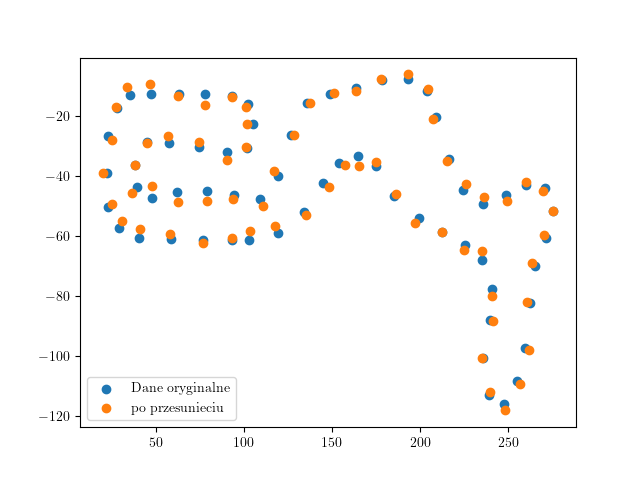
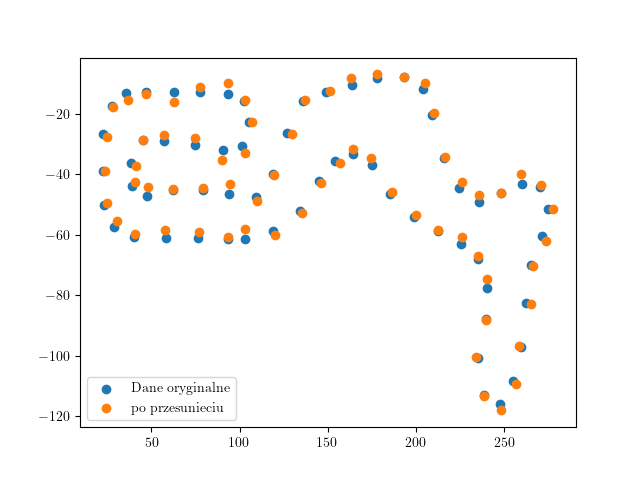
made some customization, debugging, edited readme

diff --git a/src/trajectory.py b/src/trajectory.py
@@ -15,6 +15,7 @@ from matplotlib import pyplot as plt
 
 from sklearn.gaussian_process import GaussianProcessRegressor
 from sklearn.gaussian_process.kernels import Matern
+from sklearn.preprocessing import StandardScaler
 
 from track import Track
 from vehicle import Vehicle
@@ -62,7 +63,6 @@ class Trajectory:
         """Calculate lap time from the velocity profile."""
         # print(self.s)
         time_sum = np.sum(np.diff(self.s) / self.velocity.v)
-        print(time_sum)
         return time_sum
     
     ##################################################
@@ -70,7 +70,6 @@ class Trajectory:
     def updateBayesian(self, waypoints):
         """Update control points and the resulting path."""
         
-        print(f"update Bayesian: ")
         self.path = Path(waypoints, self.track.closed)
         # Sample every metre
         self.s = np.linspace(0, self.path.length, self.ns)
@@ -86,14 +85,12 @@ class Trajectory:
         """Minimum time to traverse on a fixed trajectory for Bayesian optimisation."""
         # Method for Bayesian optimization
         
-        print("calcMinTime")
-        
         # Fit cubic splines on the waypoints
         # waypoints are values in between the cones
-        tck, u = splprep([waypoints[0], waypoints[1]], s = 3)
+        tck, u = splprep([waypoints[0], waypoints[1]], s = 1)
         
         # Re-sample waypoints with finer discretization
-        u_fine = np.linspace(0, 1, num=2*len(waypoints[0])) # in documentation, they starts with 21 (they advise <30) waypoints and do finer discretization with 100 waypoints
+        u_fine = np.linspace(0, 1, 120)#num=2*len(waypoints[0])) # in documentation, they starts with 21 (they advise <30) waypoints and do finer discretization with 100 waypoints
         x_fine, y_fine = splev(u_fine, tck)
         
         # for debugging
@@ -123,13 +120,16 @@ class Trajectory:
         
         # 2. Calculate the normal to the spline at this point
         dx, dy = splev(t_closest, spline, der=1)
-        normal = np.array([-dy, dx])
-        normal /= np.linalg.norm(normal)
-        
+        tangent = np.array([dx, dy])
+        tangent /= np.linalg.norm(tangent)
+
+        # Normal vector is perpendicular to the tangent vector
+        normal = np.array([-tangent[1], tangent[0]])
+
         # 3. Move the point (x, y) by the given distance in the normal direction
         new_x = x + distance * normal[0]
         new_y = y + distance * normal[1]
-        
+            
         return new_x, new_y
     
     def expected_improvement(self, x, gp, tau_best, n_params):
@@ -143,14 +143,22 @@ class Trajectory:
             self.sigma.append(sigma)
         return ei
 
-    def find_best_w(self, gp, tau_best, bounds, n_params):
+    def find_best_w(self, gp, tau_best, x0, bounds, n_params):
+        
+        # scaler = StandardScaler()
+        # x0 = np.array(x0)
+        # x0_scaled = scaler.fit_transform(x0.reshape(-1, 1)).flatten()
+        # # bounds_scaled = scaler.transform(bounds)
+        # bounds_scaled = np.zeros_like(bounds)
+        # for i in range(bounds.shape[0]):
+        #     bounds_scaled[i] = scaler.fit_transform(bounds[i].reshape(-1, 1)).flatten()
         
         def min_obj(X):
             return -(self.expected_improvement(X, gp, tau_best, n_params))
 
-        x0 = np.random.uniform(bounds[:, 0], bounds[:, 1])
-        res = minimize(min_obj, x0=x0, bounds=bounds, method='L-BFGS-B')
-        return res.x
+        # x0 = np.random.uniform(bounds[:, 0], bounds[:, 1])
+        res = minimize(min_obj, x0=x0, bounds=bounds, method='COBYLA',options={'maxiter': 1000, 'disp': True}) # methods: 'COBYLA' 'SLSQP' 'L-BFGS-B'
+        return res.x #scaler.inverse_transform(res.x.reshape(-1, 1)).flatten() #
 
     def Bayesian(self):
         """Racing line using Bayesian optimization."""
@@ -160,7 +168,8 @@ class Trajectory:
         
         x_mid = self.mid_controls_decongested[0] #self.mid_waipoints[0]
         y_mid = self.mid_controls_decongested[1] #self.mid_waipoints[1]
-        widths = self.widths_decongested #self.widths
+        widths = self.widths_decongested#[w/2 for w in self.widths_decongested] #self.widths
+        print(f"ilosc punktow do spline: {len(widths)} szerokości na trasie: {widths}")
         n = len(widths)
         
         # print(self.widths)
@@ -177,18 +186,18 @@ class Trajectory:
             # print(len(self.widths))
             for i in range (len(x_mid)):
                 # random distance to move track in the normal direction
-                distance = np.random.uniform(-0.99,0.99) * widths[i] / 2
+                distance = np.random.uniform(0,0.99) * widths[i] / 2
                 distance_w_list.append(distance)
                 
                 x_new, y_new = self.move_xy_by_distance(tck, x_mid[i], y_mid[i], distance)
                 new_x_list.append(x_new)
                 new_y_list.append(y_new)
                 
-            # plt.figure(); plt.scatter(x_mid, y_mid, label='Dane oryginalne')
-            # plt.scatter(new_x_list, new_y_list, label='po przesunieciu')
-            # plt.legend()
-            # # plt.show()
-            # plt.savefig(f'img/mid_after_decongested_{j}.png')
+            plt.figure(); plt.scatter(x_mid, y_mid, label='Dane oryginalne')
+            plt.scatter(new_x_list, new_y_list, label='po przesunieciu')
+            plt.legend()
+            # plt.show()
+            plt.savefig(f'img/mid_after_decongested_{j}.png')
             
             # Step 4: Compute min time to traverse using Algorithm 1
             lap_time = self.calcMinTime((new_x_list, new_y_list))
@@ -211,8 +220,11 @@ class Trajectory:
         while not converged:
             # Step 11: Determine candidate trajectory w*
             tau_best = np.min(y_train)
+            w_best = distances_w_list[np.argmin(y_train)]
+            
             bounds = np.array([[-w/2, w/2] for w in widths])
-            w_star = self.find_best_w(gp, tau_best, bounds, n)
+            w_star = self.find_best_w(gp, tau_best, w_best,bounds, n)
+            distances_w_list.append(w_star)
             
             
             # Step 12: Compute min time to traverse τ* using Algorithm 1
@@ -223,22 +235,28 @@ class Trajectory:
                 x_star_list.append(x_star); y_star_list.append(y_star)
             tau_star = self.calcMinTime((x_star_list, y_star_list))
             
+            print(f"tau best: {tau_best} tau star: {tau_star}")
+            
             # Step 13: Add new sample to training data
             D.append((w_star, tau_star))
             X_train = np.array([np.ravel(w) for w, _ in D])
             y_train = np.array([t for _, t in D])
             
+            
             # Step 14: Update the GP model using D
             gp.fit(X_train, y_train)
             
             # Check for convergence
-            if len(y_train) > 10 and np.std(self.sigma[-10:]) < 1e-3:
+            if len(y_train) > 30 and np.std(self.sigma[-10:]) < 1e-3:
                 converged = True
+                w_best = distances_w_list[np.argmin(y_train)]
+                print(f"czasy trajektorii: {y_train}")
                 
         x_star_list = []; y_star_list = []
         for i in range (len(x_mid)):
-            x_star, y_star = self.move_xy_by_distance(tck, x_mid[i], y_mid[i], w_star[i])
+            x_star, y_star = self.move_xy_by_distance(tck, x_mid[i], y_mid[i], w_best[i])
             x_star_list.append(x_star); y_star_list.append(y_star)
+            
             
         self.best = (x_star_list, y_star_list)
 

diff --git a/README.md b/README.md
@@ -3,3 +3,20 @@ Based on [this repository](https://github.com/joedavison17/dissertation/)
 
 # example of running program
 python3 src/__main__.py --curvature --plot-all ./data/tracks/buckmore.json ./data/vehicles/tbr18.json
+
+python3 src/__main__.py --bayes --plot-all data/tracks/buckmore.json data/vehicles/tbr18.json
+
+
+## problemy:
+problemów może być parę. 
+- po pierwsze  dodatnie wolosowane wartości dla w_t nie są zawsze po jednej stronie toru. To może wprawadzać błędy w postaci nagłych skoków z jedne części na drugą. Jk zapewnić żeby byly po jednej stronie?
+- po drugie nie wiem czy jest to minimalizowane tak jak oni chcą w dokumentacji. Chat napisał funkcję, która minimalizuje teoretycznie, ale czy faktycznie robi to dobrze?
+- po trzecie trzeba zobaczyć czy podanie jako warunków początkowych do minimalizacji waypointów z najlepszym czasem nie poprawi wyników. -> done, nie wiem czy poprawiło XD
+
+
+ ConvergenceWarning: lbfgs failed to converge (status=2):
+ABNORMAL_TERMINATION_IN_LNSRCH.
+
+Increase the number of iterations (max_iter) or scale the data as shown in:
+    https://scikit-learn.org/stable/modules/preprocessing.html
+  _check_optimize_result("lbfgs", opt_res)
